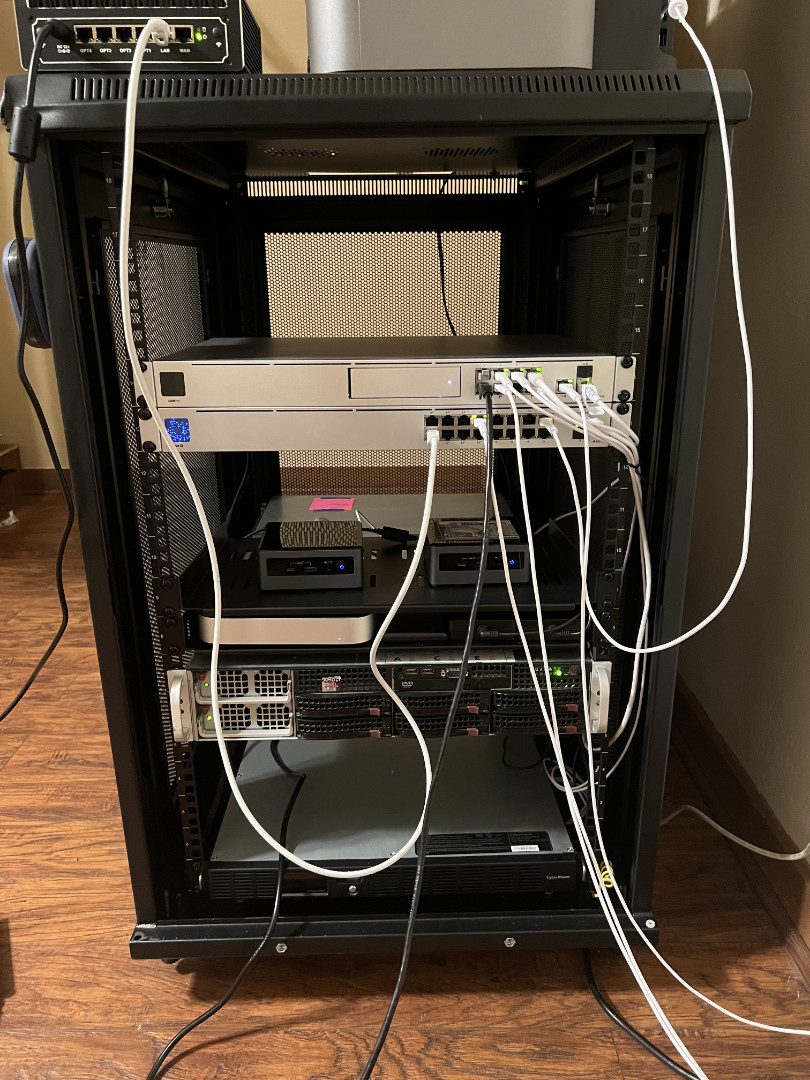
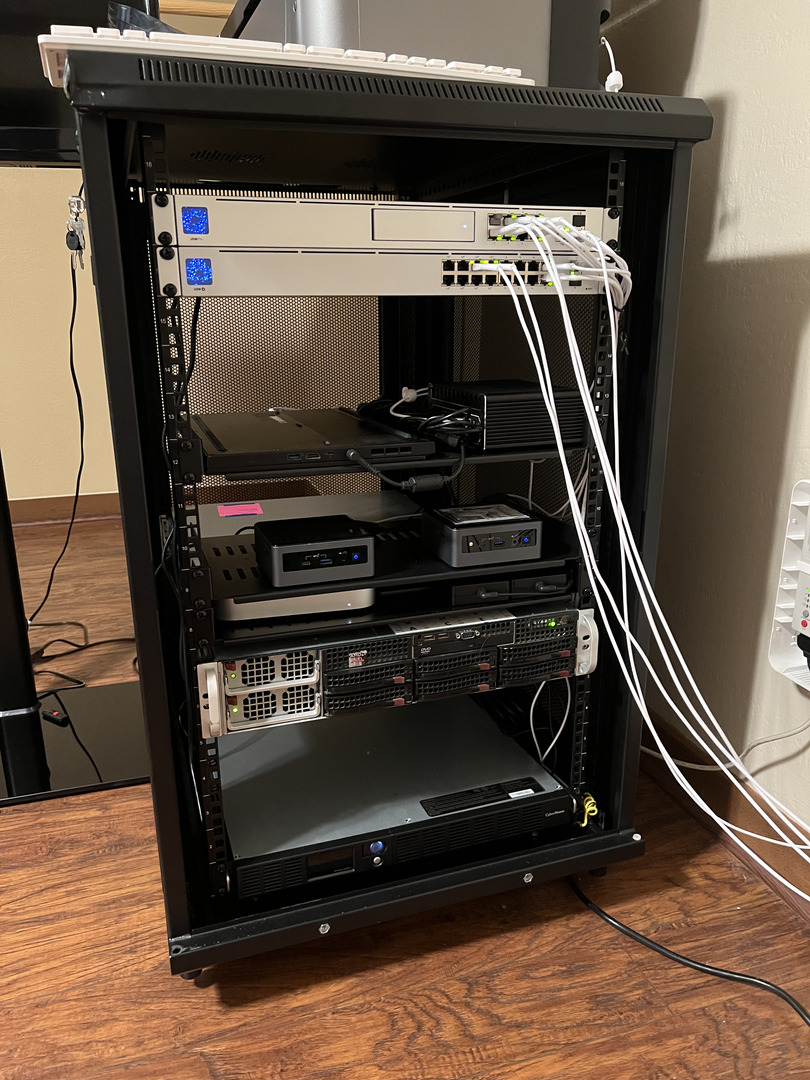
Updated homelab

diff --git a/src/app/cards/homelab/homelab.component.html b/src/app/cards/homelab/homelab.component.html
@@ -11,7 +11,7 @@
 			<br /><br />
 			Last updated:
 			<br />
-			Oct 2, 2021
+			Oct 25, 2021
 		</span>
 		<img
 			class="clickable-image"
@@ -46,6 +46,30 @@
 		From top to bottom...
 		<ul>
 			<li>
+				Ubiquiti Dream Machine Pro
+				<ul>
+					<li>Network router and IPS</li>
+					<li>NVR for 3 x G4 Pro cameras</li>
+				</ul>
+			</li>
+			<li>Ubiquiti Switch 16 PoE</li>
+			<li>
+				MSI GS66 Stealth i7-10750H, 12 cores (6 physical), 32 GB
+				<i>(flopstje)</i>
+				<ul>
+					<li>
+						Hosting GPU related things:
+						<br />
+						<a href="https://shared-desktop.tivolicloud.com"
+							>Tivoli Shared Desktop</a
+						>,
+						<a href="https://squirrels.cutelab.space"
+							>Cutelab Squirrels</a
+						>
+					</li>
+				</ul>
+			</li>
+			<li>
 				Protectli Vault 6 Port, i7 quad core
 				<ul>
 					<li>
@@ -63,15 +87,7 @@
 				</ul>
 			</li>
 			<li>
-				Ubiquiti Dream Machine Pro
-				<ul>
-					<li>Network router and IPS</li>
-					<li>NVR for 3 x G4 Pro cameras</li>
-				</ul>
-			</li>
-			<li>Ubiquiti Switch 16 PoE</li>
-			<li>
-				Intel NUC i7-10710U, 12 cores(6 physical), 24 GB
+				Intel NUC i7-10710U, 12 cores (6 physical), 24 GB
 				<i>(cutenuc)</i>
 				<ul>
 					<li>
@@ -101,6 +117,12 @@
 						<a href="http://tivolicloud.com/">Tivoli</a>
 					</li>
 					<li>
+						Linux arm64
+						<a href="http://git.tivolicloud.com/tivolicloud">
+							Tivoli build server
+						</a>
+					</li>
+					<li>
 						<i>
 							Used to be the macOS build server before Apple
 							deprecated OpenGL
@@ -117,21 +139,18 @@
 						Tivoli servers:
 						<ul>
 							<li>
-								<a href="http://tivolicloud.com/">
-									Website and API
-								</a>
-							</li>
-							<li>
-								<a href="http://blog.tivolicloud.com/">
-									Ghost blog
-								</a>
-							</li>
-							<li>
-								<a
-									href="http://git.tivolicloud.com/tivolicloud"
+								<ng-container
+									*ngFor="
+										let service of tivoliYeti;
+										let i = index
+									"
 								>
-									GitLab and runner
-								</a>
+									<a [href]="service[1]">{{ service[0] }}</a
+									><ng-container
+										*ngIf="i != tivoliYeti.length - 1"
+										>,
+									</ng-container>
+								</ng-container>
 							</li>
 						</ul>
 					</li>

diff --git a/src/app/cards/homelab/homelab.component.ts b/src/app/cards/homelab/homelab.component.ts
@@ -1,4 +1,5 @@
 import { Component, OnInit } from "@angular/core";
+import { shuffleArray } from "../../utils";
 
 @Component({
 	selector: "app-homelab",
@@ -6,13 +7,17 @@ import { Component, OnInit } from "@angular/core";
 	styleUrls: ["./homelab.component.scss"],
 })
 export class HomelabComponent implements OnInit {
+	// personalYeti = shuffleArray([
 	personalYeti = [
 		["Lanyard", "https://lanyard.cutelab.space"],
 		["Nitter", "https://nitter.cutelab.space"],
 		["Bibliogram", "https://bibliogram.cutelab.space"],
+		["Nitter", "https://nitter.cutelab.space"],
 		["Meli", "https://github.com/getmeli/meli"],
 		["Pihole", "https://pi-hole.net"],
 		["Emby", "https://emby.media/"],
+		["Jellyfin", "https://jellyfin.org/"],
+		["Plex", "https://www.plex.tv/"],
 		["RSS Bridge", "https://github.com/RSS-Bridge/rss-bridge"],
 		["Mastodon", "https://mastodon.cutelab.space"],
 		["FreshRSS", "https://freshrss.org"],
@@ -27,6 +32,20 @@ export class HomelabComponent implements OnInit {
 		["Deluge", "https://deluge-torrent.org"],
 		["Traefik", "https://traefik.io/traefik"],
 		["Librespeed", "https://speedtest.cutelab.space"],
+		["InvoiceNinja", "https://www.invoiceninja.com"],
+		[
+			"Speedtest Tracker",
+			"https://github.com/henrywhitaker3/Speedtest-Tracker",
+		],
+	];
+	// ]);
+
+	tivoliYeti = [
+		["Website and API", "https://tivolicloud.com"],
+		["Ghost blog", "https://blog.tivolicloud.com"],
+		["GitLab and runner", "https://git.tivolicloud.com/tivolicloud"],
+		["Plausible analytics", "https://plausible.io"],
+		["Cardano node", "https://cardano.org"],
 	];
 
 	constructor() {}

diff --git a/src/app/utils.ts b/src/app/utils.ts
@@ -28,3 +28,13 @@ export function getImage(url: string) {
 		img.src = url;
 	});
 }
+
+export function shuffleArray(array: any[]) {
+	for (var i = array.length - 1; i > 0; i--) {
+		var j = Math.floor(Math.random() * (i + 1));
+		var temp = array[i];
+		array[i] = array[j];
+		array[j] = temp;
+	}
+	return array;
+}
